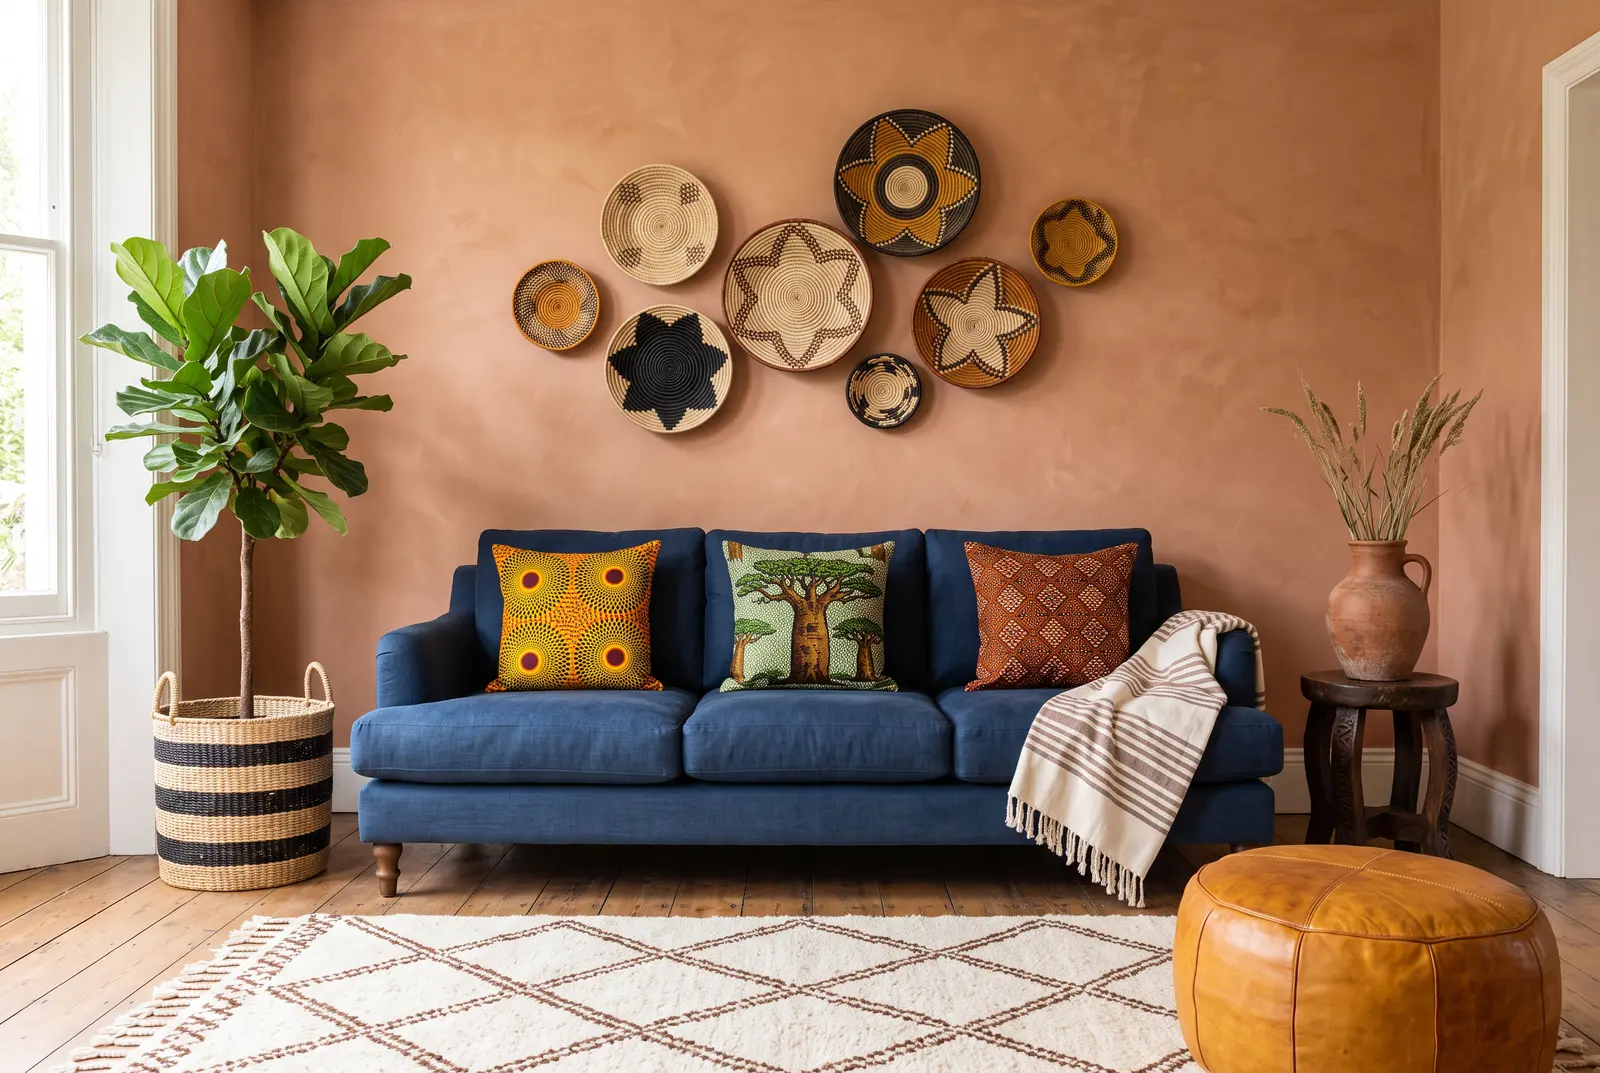
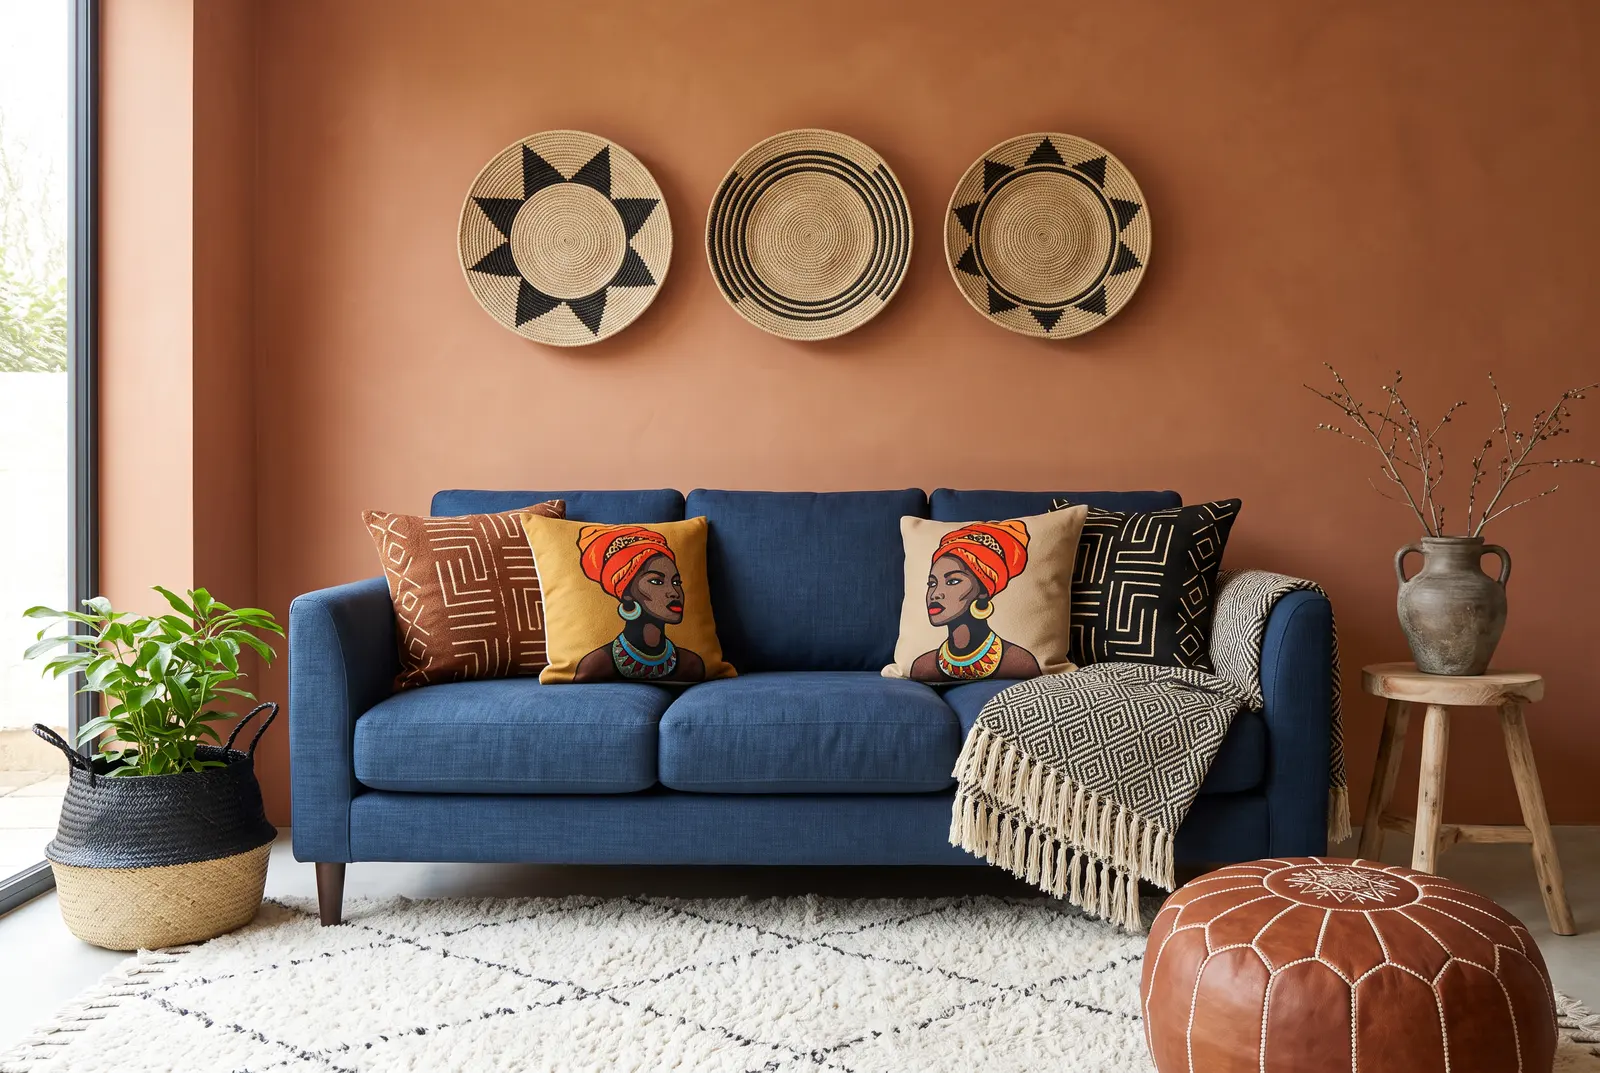
Salon terracotta : nouvelle image générée à partir des vrais produits (décrits d'après leurs fiches), points et texte ajustés ; nom corrigé des housses à fleurs orange

diff --git a/contenu/articles/salon-terracotta-wax.md b/contenu/articles/salon-terracotta-wax.md
@@ -7,31 +7,29 @@ pieces: [salon]
 matieres: [wax, raphia-paniers, terre-cuite]
 occasions: []
 image: salon-terracotta-wax
-image_alt: "Salon au mur enduit terracotta : canapé bleu indigo, coussins en wax safran, baobab et terracotta, plaid rayé crème, assiettes tressées au mur, ficus dans un panier rayé, tapis à losanges, pouf en cuir ocre et tabouret sculpté portant un vase en terre cuite."
-# Illustration provisoire (dessin maison). Passer à true si elle est remplacée par une image créée par IA.
+image_alt: "Salon au mur enduit terracotta : canapé bleu indigo, deux coussins à portraits de femmes africaines aux foulards orange, deux coussins mudcloth rouille et noir, plaid à losanges noir et crème à franges, trois paniers tressés à motifs noirs au mur, plante dans un panier noir et naturel, tapis berbère crème, pouf marocain en cuir cognac et tabouret en bois portant un vase patiné."
 image_ia: true
 produits:
   - coussin-wax-cercles-safran
-  - coussin-wax-vert-baobab
-  - coussin-wax-terracotta
+  - coussin-bogolan
+  - plaid-coton-rayures-creme
   - assiettes-murales-tressees
   - panier-plante-tresse-rayures
   - tapis-motif-losanges
   - pouf-cuir-ocre
   - vase-terre-cuite-terracotta
   - tabouret-bois-sculpte
-  - plaid-coton-rayures-creme
+  - coussin-wax-vert-baobab
 hotspots:
-  - { produit: coussin-wax-cercles-safran, x: 36, y: 57 }
-  - { produit: coussin-wax-vert-baobab, x: 50, y: 57 }
-  - { produit: coussin-wax-terracotta, x: 66, y: 57 }
-  - { produit: assiettes-murales-tressees, x: 50, y: 28 }
-  - { produit: panier-plante-tresse-rayures, x: 15, y: 75 }
-  - { produit: tapis-motif-losanges, x: 40, y: 92 }
-  - { produit: pouf-cuir-ocre, x: 85, y: 89 }
-  - { produit: vase-terre-cuite-terracotta, x: 86, y: 57 }
-  - { produit: tabouret-bois-sculpte, x: 86, y: 72 }
-  - { produit: plaid-coton-rayures-creme, x: 71, y: 70 }
+  - { produit: assiettes-murales-tressees, x: 51, y: 22 }
+  - { produit: coussin-bogolan, x: 29, y: 55 }
+  - { produit: coussin-wax-cercles-safran, x: 39, y: 55 }
+  - { produit: plaid-coton-rayures-creme, x: 68, y: 72 }
+  - { produit: panier-plante-tresse-rayures, x: 10, y: 79 }
+  - { produit: tapis-motif-losanges, x: 33, y: 92 }
+  - { produit: pouf-cuir-ocre, x: 84, y: 89 }
+  - { produit: vase-terre-cuite-terracotta, x: 91, y: 57 }
+  - { produit: tabouret-bois-sculpte, x: 91, y: 75 }
 epingles:
   - "Salon terracotta et wax : 5 idées déco"
   - "Un salon africain chaleureux, sans surcharge"
@@ -49,26 +47,28 @@ Plutôt que de peindre toute la pièce, choisissez **le mur derrière le canapé
 
 Pas le droit de peindre ? Une grande tenture ou un tissu tendu sur châssis fait le même effet.
 
-## 2. Un canapé uni, des coussins en wax
+## 2. Un canapé uni, des coussins imprimés
 
-Le wax attire l’œil : laissez-le travailler seul. Sur un **canapé uni et sombre** (indigo, vert bouteille, brun), trois coussins suffisent. Pour que l’ensemble reste harmonieux :
+Les imprimés africains, wax, mudcloth ou portraits, attirent l’œil : laissez-les travailler seuls. Sur un **canapé uni et sombre** (indigo, vert bouteille, brun), quatre coussins suffisent. Pour que l’ensemble reste harmonieux :
 
-- choisissez des wax qui partagent **au moins une couleur** (ici le safran revient sur chaque coussin) ;
-- variez la taille des motifs : un grand, un moyen, un petit ;
-- ajoutez une matière calme entre eux, comme un plaid en coton tissé.
+- choisissez des motifs qui partagent **au moins une couleur** (ici l’orange et le rouille reviennent sur chaque coussin) ;
+- alternez deux familles de motifs : des portraits colorés et des motifs géométriques mudcloth ;
+- ajoutez un plaid à motif plus discret, noir et crème, qui fait la transition.
 
-## 3. Des assiettes tressées au mur
+Et si vous voulez de vrais coussins en wax, le plus simple est de les coudre à partir de coupons de tissu.
 
-Au-dessus du canapé, une composition d’**assiettes et de plateaux tressés** remplace avantageusement un tableau. Mélangez trois à sept pièces de tailles différentes, posez-les d’abord au sol pour trouver la bonne disposition, puis fixez-les avec un simple clou chacune. Laissez quelques centimètres entre elles pour que chaque motif se lise.
+## 3. Des paniers tressés au mur
+
+Au-dessus du canapé, **trois paniers tressés plats** alignés remplacent avantageusement un tableau. Leurs motifs noirs sur fond naturel répondent aux coussins sans les concurrencer. Posez-les d’abord au sol pour trouver le bon espacement, puis fixez-les avec un simple clou chacun, à égale distance.
 
 ## 4. Des matières brutes pour calmer les couleurs
 
-Le secret d’un salon africain réussi, c’est l’équilibre entre les imprimés et les **matières naturelles** : un grand panier tressé pour une plante, un vase en terre cuite, un petit tabouret en bois sculpté qui sert de table d’appoint. Ces objets aux tons de terre font le lien entre le mur terracotta et les coussins.
+Le secret d’un salon africain réussi, c’est l’équilibre entre les imprimés et les **matières naturelles** : un panier tressé pour une plante, un vase patiné garni de branches, un petit tabouret en bois brut qui sert de table d’appoint. Ces objets aux tons de terre font le lien entre le mur terracotta et les coussins.
 
 ## 5. Un tapis graphique et un pouf pour ancrer le tout
 
-Au sol, un **tapis clair à motifs géométriques** (losanges, lignes) rappelle le bogolan ou les tapis berbères sans concurrencer le wax. Un pouf en cuir ou en tissu ocre complète l’espace : siège d’appoint, repose-pieds ou table basse avec un plateau.
+Au sol, un **tapis clair à motifs géométriques** (losanges, lignes) rappelle le bogolan ou les tapis berbères sans concurrencer le wax. Un pouf marocain en cuir cognac complète l’espace : siège d’appoint, repose-pieds ou table basse avec un plateau.
 
-> Le bon réflexe : trois couleurs principales (ici terracotta, indigo et safran), et tout le reste en tons naturels.
+> Le bon réflexe : trois couleurs principales (ici terracotta, indigo et orange), et tout le reste en tons naturels.
 
 Retrouvez les objets de cette ambiance juste sous l’image, et d’autres idées dans la rubrique [Salon](piece-salon.html) ou dans notre guide du [wax](glossaire-wax.html).
